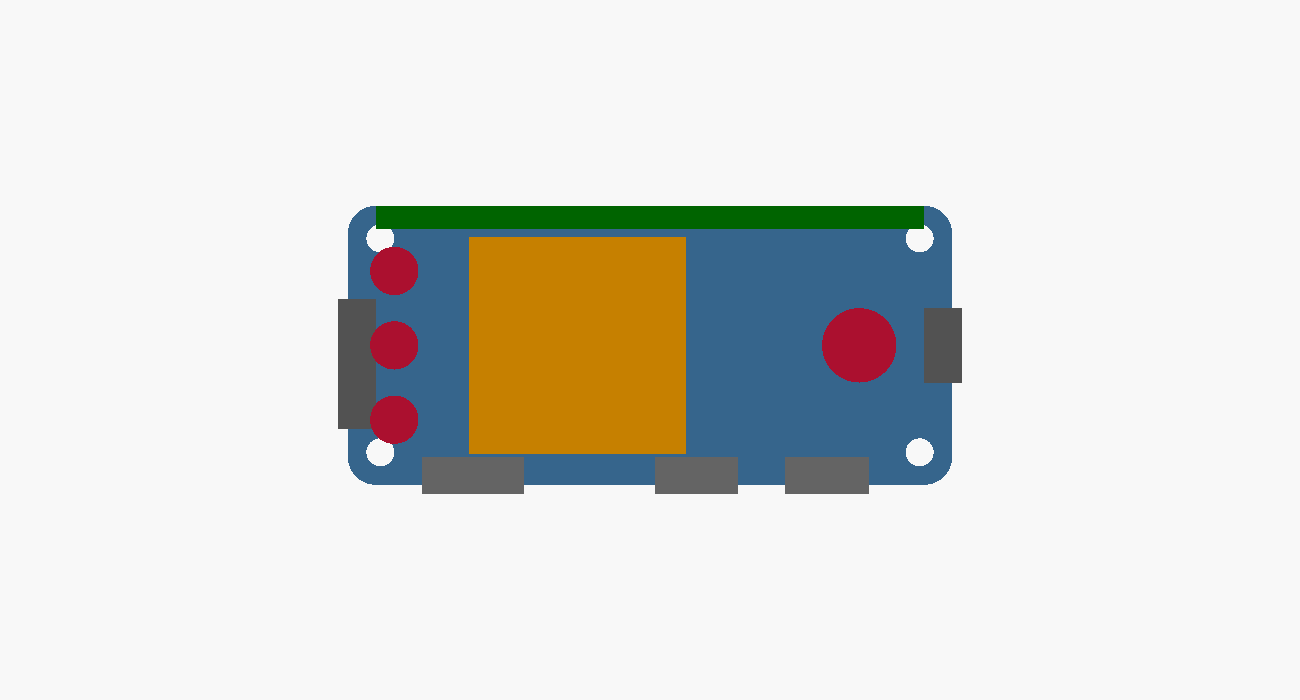
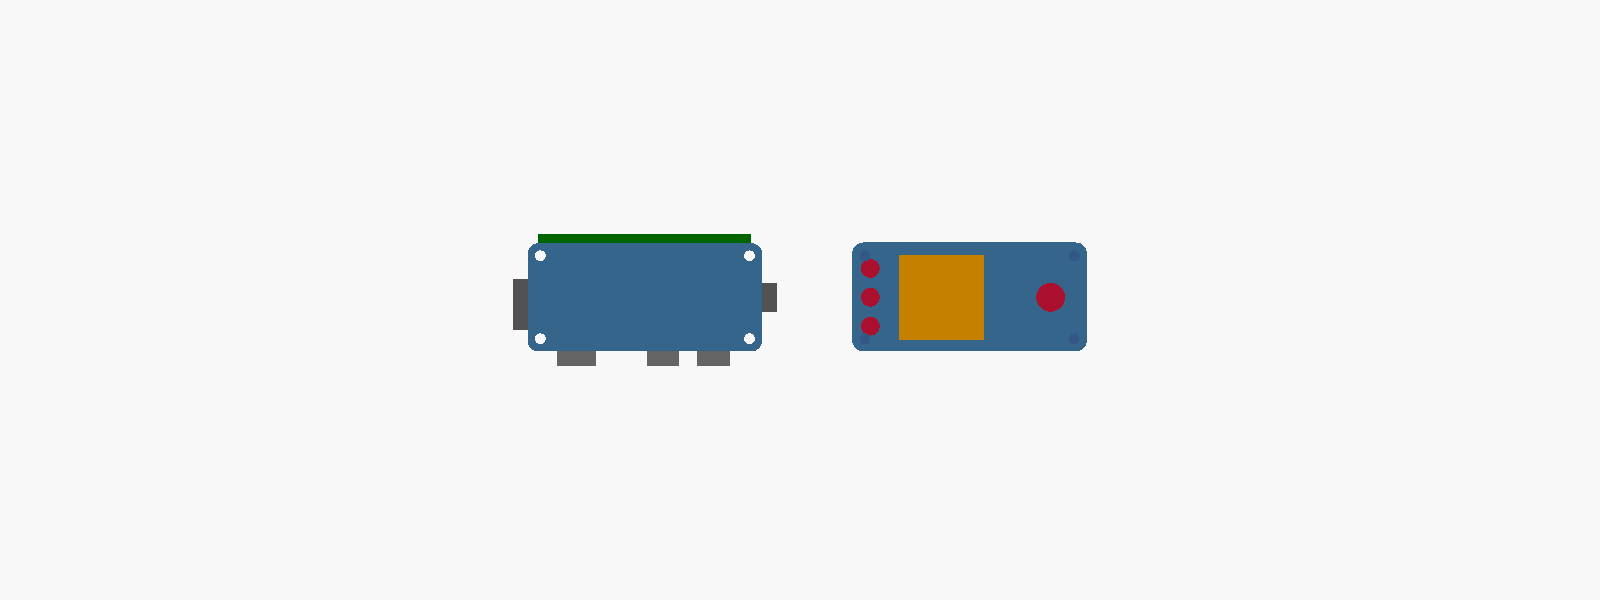
FAT32 を統合し、筐体の高さ関係を断面で確認（242 → 293 テスト）
FAT32（サブエージェント実装）:
- src/fs/block_device.zig（243 行 / テスト 6 件）と src/fs/fat32.zig（3326 行 / テスト 45 件）を
  root.zig に登録。**293 テストが 4 モードで成功**（242 + 51、回帰なし）
- 作業中の一時ファイル（tmp_fat_test.zig）を削除し、コミットに含めていた分を整理

筐体（指摘への対応）:
- 「穴とボタンが干渉して見える」という指摘を検証。2D の重ね図は投影なので高さの違いが
  見えないだけで、実際は ボタンの穴（上蓋 13.7〜15.7mm）は microSD カード（基板直上
  3.6〜4.4mm）より 10mm 以上上にあり、干渉しない
- 断面図（手前半分を切り取った斜視図）を追加して docs/images/case-section.png に保存
- 配置確認図を「基板（左パネル）」「HAT（右パネル）」に分割し、誤解を招かないようにした

注意: FAT32 の mtools 突き合わせ（読み・書き・リネーム・削除・fsck）はサブエージェントの
報告であり、Lead はまだ独立に再現していない（テストが通ることは確認済み）。
カード上の実ファイルを扱うハーネス（CLI の card コマンド）を作って再現する。

Changed region(s): [[0.2462, 0.27, 0.7385, 0.72]]

diff --git a/hardware/enclosure/README.md b/hardware/enclosure/README.md
@@ -68,9 +68,29 @@ Inventor（.ipt）の編集可能ソース付き）。
 
 **まだ実測していないのは穴の位置だけ**で、外形と構造は確定している。
 
+### 高さ関係（ボタンと microSD は干渉しない）
+
+「穴とボタンが干渉して見える」という指摘を受けて断面を確認した。
+2D の重ね図は**投影**なので、高さが違うものも重なって見える。実際の高さは次のとおり。
+
+| 層 | 高さ（z、ケース底面 = 0） |
+|---|---|
+| ケース底板 | 0〜2.0mm |
+| 基板（65 × 30 × 1.6） | 2.0〜3.6mm |
+| **microSD カード** | 3.6〜4.4mm（基板のすぐ上） |
+| 40pin ヘッダ | 3.6〜12.1mm |
+| **HAT** | 12.1〜13.7mm |
+| 上蓋（**ボタンの穴**） | 13.7〜15.7mm |
+
+**ボタンの穴は microSD カードより 10mm 以上上**にあるため、干渉しない。
+カードは基板と HAT の間（8.5mm の隙間）を通り、ケース左面の開口（14 × 3mm）から出し入れする。
+
+![断面（手前半分を切り取った斜視図）](../../docs/images/case-section.png)
+
 ### 配置確認図（公式の寸法図と見比べる用）
 
-基板の外形・取付穴・コネクタと、HAT の LCD・ボタン・ジョイスティックを**重ねて**描いたもの。
+**左パネル = 基板（下の層）**、**右パネル = HAT（上の層）**として分けて描いたもの
+（重ねると高さの違いで干渉して見えるため）。
 
 ![配置確認図](../../docs/images/layout-check.png)
 
